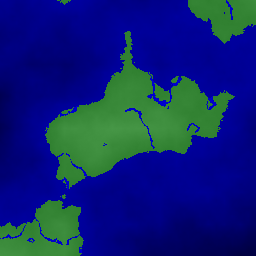
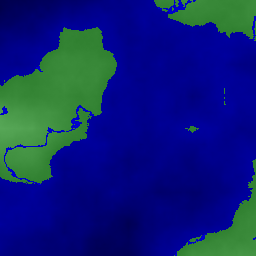
Terrain Fixes
Improved terrain stuff
Fixed negative perlin glitch

diff --git a/src/Client/zap/turrem/client/game/world/ModelChunk.java b/src/Client/zap/turrem/client/game/world/ModelChunk.java
@@ -42,18 +42,21 @@ public class ModelChunk
 		GL11.glTranslatef(-this.chunkX, 0.0F, -this.chunkY);
 	}
 	
-	protected int getH(int max, int x, int y)
-	{
-		return this.getH(max, (short) x, (short) y);
-	}
-	
-	protected int getH(int max, short x, short y)
+	protected float getfH(short x, short y)
 	{
 		if (x < 0 || x >= 16 || y < 0 || y >= 16)
 		{
+			return Float.NaN;
+		}
+		return this.terc.ajustSurface(x, y, this.peak, this.sea, 0.0F);
+	}
+	
+	protected int getH(int max, int x, int y, float h)
+	{
+		if (Float.isNaN(h))
+		{
 			return 0;
 		}
-		float h  = this.terc.ajustSurface(x, y, this.peak, this.sea, 0.0F);
 		int H = (int) (max * h);
 		if (H < 0)
 		{
@@ -62,12 +65,22 @@ public class ModelChunk
 		return H;
 	}
 	
+	protected int getH(int max, int x, int y)
+	{
+		return this.getH(max, (short) x, (short) y);
+	}
+	
+	protected int getH(int max, short x, short y)
+	{
+		return this.getH(max, x, y, this.getfH(x, y));
+	}
+	
 	protected TVFFile makeTVF()
 	{
 		TVFColor green = new TVFColor();
 		green.id = 0x00;
 		green.r = (byte) 0x0F;
-		green.g = (byte) 0x8F;
+		green.g = (byte) 0x5F;
 		green.b = (byte) 0x0F;
 		
 		TVFColor blue = new TVFColor();
@@ -84,8 +97,9 @@ public class ModelChunk
 			for (int j = 0; j < 16; j++)
 			{
 				byte color = (byte) 0x00;
-				int H = this.getH(this.height, i, j);
-				if (H == 0)
+				float h = this.getfH((short)i, (short)j);
+				int H = this.getH(this.height, i, j, h);
+				if (h < 0.0F)
 				{
 					color = (byte) 0x01;
 				}

diff --git a/src/Core/zap/turrem/core/world/perlin/PerlinWorld.java b/src/Core/zap/turrem/core/world/perlin/PerlinWorld.java
@@ -73,7 +73,15 @@ public class PerlinWorld implements IPerlinGroup
 			}
 		}
 		int xind = chunkx / this.layersize;
+		if (chunkx < 0)
+		{
+			xind--;
+		}
 		int yind = chunky / this.layersize;
+		if (chunky < 0)
+		{
+			yind--;
+		}
 		float u = chunkx / (float) this.layersize - xind;
 		float v = chunky / (float) this.layersize - yind;
 		IPerlinLayer l = this.makeLayer(xind, yind);

diff --git a/src/Client/zap/turrem/client/game/world/WorldClient.java b/src/Client/zap/turrem/client/game/world/WorldClient.java
@@ -42,9 +42,9 @@ public class WorldClient
 		this.terrain.generate();
 		this.terrainRender = new RenderEngine();
 		
-		for (int i = 0; i <= 16; i++)
+		for (int i = -8; i < 8; i++)
 		{
-			for (int j = 0; j <= 16; j++)
+			for (int j = -8; j < 8; j++)
 			{
 				this.chunkmodels.add(new ModelChunk(this.terrain.getChunk(i, j), 1.0F, 0.5F, 16, i, j, this.terrainRender));
 			}

diff --git a/src/Client/zap/turrem/client/Turrem.java b/src/Client/zap/turrem/client/Turrem.java
@@ -81,7 +81,7 @@ public class Turrem
 		{
 			File f = new File(this.dir + "tertest.png");
 			f.createNewFile();
-			ImageIO.write(ter.renderTest(0, 0, 16, 16), "png", new FileOutputStream(f));
+			ImageIO.write(ter.renderTest(-8, -8, 16, 16), "png", new FileOutputStream(f));
 		}
 		catch (Exception e)
 		{
